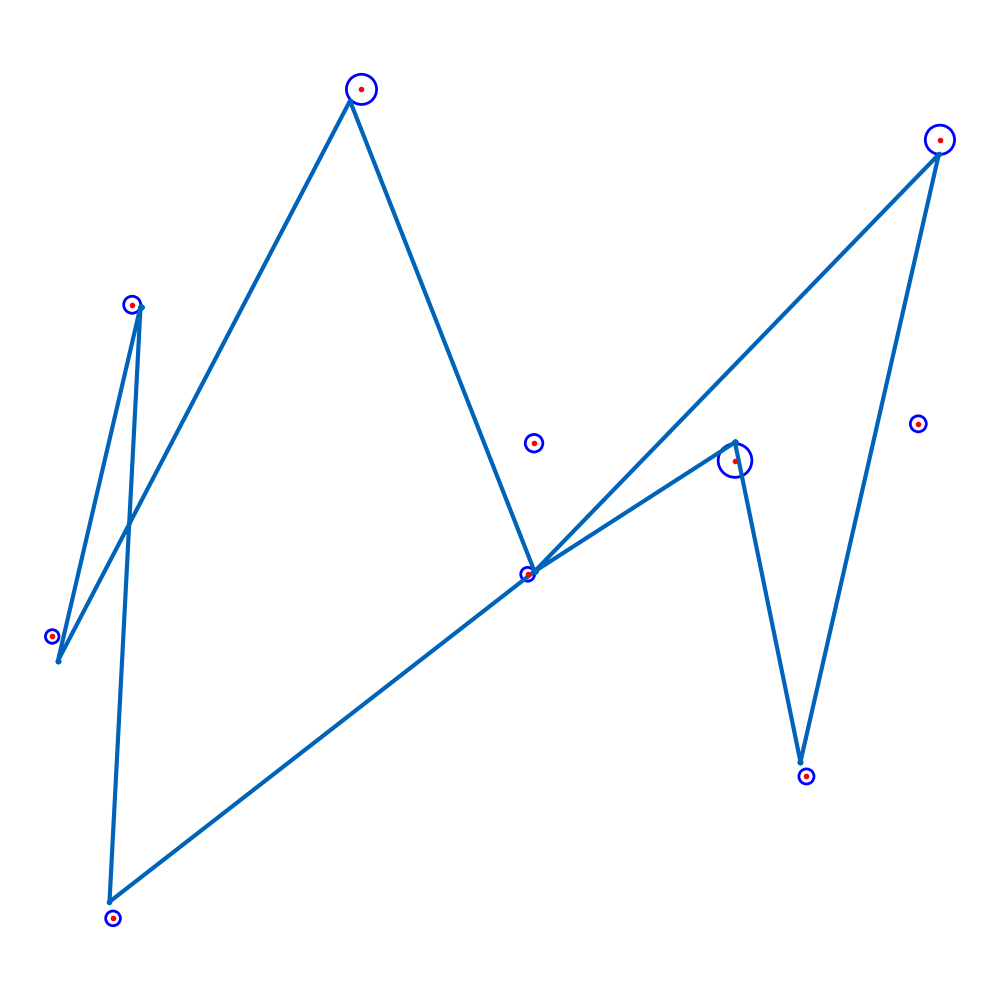
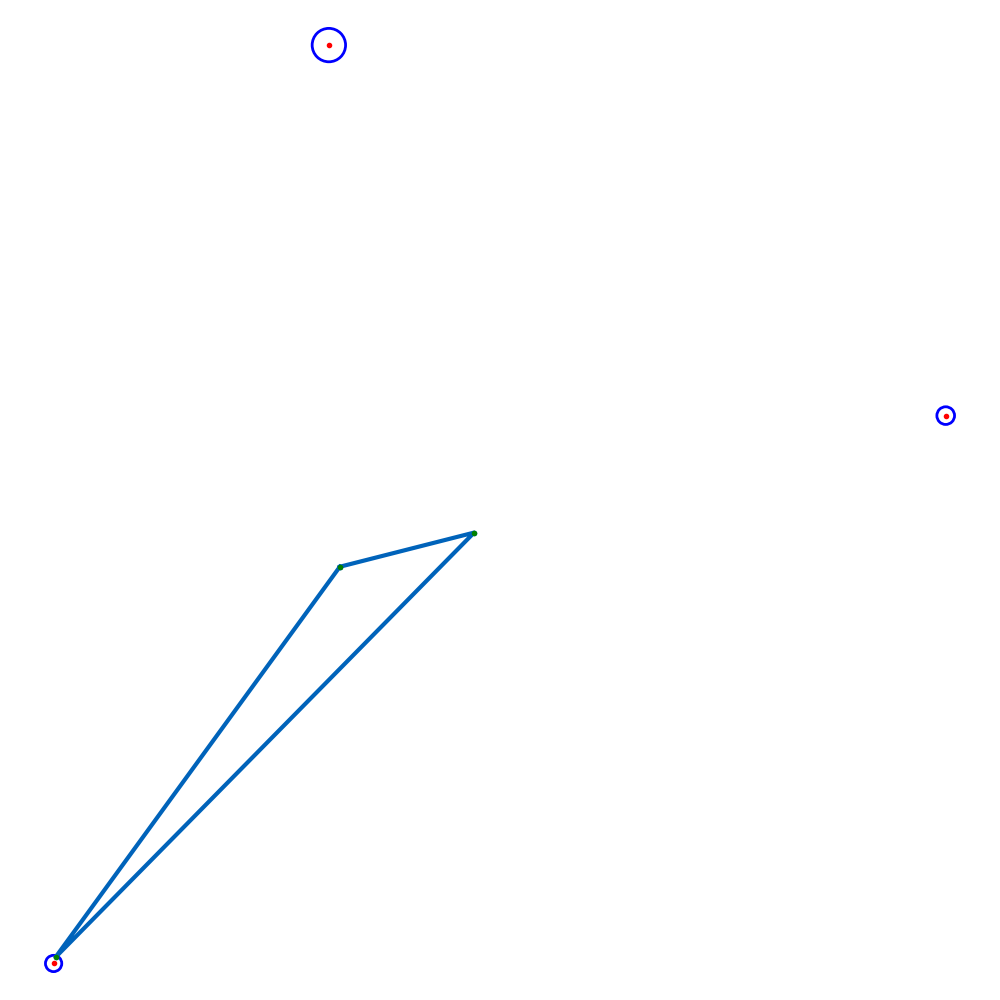
update func neuron

diff --git a/src/neuron.py b/src/neuron.py
@@ -10,7 +10,7 @@ def generate_network(robots, problem, multi = 2):
     network = [[]] * number_robot
     for i in range(number_robot):
         tmp_list = []
-        angle = math.pi / number_waypoint
+        angle = 2 * math.pi / number_waypoint
         radius = problem[i][2] * multi
         for j in range(number_waypoint):
             tmp_list.append(
@@ -53,40 +53,52 @@ def adaption(path, city, sigma):
     # Tìm way_point nằm trên path gần city nhất
     idx_waypoint, sqr_dis_waypoint, z_nearest_waypoint = find_nearest_way_point(tmp_network, city)
 
-    final_waypoint = tmp_network[idx_waypoint]
-    final_z_nearest = z_nearest_waypoint
-
     neareast_point_in_path = None
     idx_insert = None
     z_nearest_path = None
-    sqr_dis_point_in_path = 2 # Đặt là 2 vì map được normalize về [0; 1]
+    sqr_dis_point_in_path = -1
 
     if sqr_dis_waypoint > 0: # Trường hợp không có waypoint nào nằm trong region thì mới xét tới cạnh
         neareast_point_in_path, sqr_dis_point_in_path, idx_insert, z_nearest_path = find_nearest_path_point(tmp_network, city)
 
         # Trường hợp điểm nằm trên cạnh gần city hơn điểm nằm trên path
         # => Chèn điểm mới vào tmp_network tại idx_insert
-        if sqr_dis_point_in_path < sqr_dis_waypoint:
+        if sqr_dis_point_in_path != -1 and sqr_dis_point_in_path < sqr_dis_waypoint:
+            print("Chen them diem moi")
             tmp_network.insert(idx_insert, neareast_point_in_path)
-            final_waypoint = neareast_point_in_path
-            final_z_nearest = z_nearest_path
+            idx_waypoint = idx_insert
+            z_nearest_waypoint = z_nearest_path
 
-    for i in range(len(tmp_network)):
-        move_toward(tmp_network[i], final_waypoint, final_z_nearest, sigma)
+    # Trong trường hợp z_nearest ở sát biên của đường tròn => Di chuyển lại gần tâm hơn
+    z_nearest_waypoint = fix_distance_z_nearest(z_nearest_waypoint, city)
+    move_toward(tmp_network, idx_waypoint, z_nearest_waypoint, sigma)
     return tmp_network
 
-def move_toward(point, final_waypoint, final_z_nearest, sigma):
-    sqr_l = (final_waypoint[0] - point[0]) ** 2 + (final_waypoint[1] - point[1]) ** 2
-    f_factor = function_factor(sqr_l, sigma)
-    point[0] = point[0] + f_factor * (final_z_nearest[0] - point[0])
-    point[1] = point[1] + f_factor * (final_z_nearest[1] - point[1])
+def fix_distance_z_nearest(z_nearest, city, threshold = 4 / 5):
+    scale = ((z_nearest[0] - city[0]) ** 2 + (z_nearest[1] - city[1]) ** 2) / (city[2] ** 2)
+    if(scale <= (threshold ** 2)): 
+        return z_nearest
+    z_nearest[0] = z_nearest[0] + (city[0] - z_nearest[0]) * (1 - threshold)
+    z_nearest[1] = z_nearest[1] + (city[1] - z_nearest[1]) * (1 - threshold)
+    return z_nearest
+ 
+def move_toward(path, idx_waypoint, final_z_nearest, sigma):
+    sz = len(path)
+    for i in range(sz):
+        l = min(idx_waypoint - i, sz - idx_waypoint + i)
+        factor = function_factor(l, sigma)
+        path[i][0] = path[i][0] + (final_z_nearest[0] - path[i][0]) * factor
+        path[i][1] = path[i][1] + (final_z_nearest[1] - path[i][1]) * factor
 
     
-def function_factor(sqr_l, sigma, landa = 1):
-    sqr_sigma = sigma ** 2
+def function_factor(l, sigma, landa = 1, multi_factor = 1):
+    sqr_sigma = sigma * sigma
+    sqr_l = l * l
+    if sqr_l == 0:
+        return 1
     if sqr_sigma <= 0:
         return 0
-    return landa * math.exp(-sqr_l / sqr_sigma)
+    return landa * math.exp(-sqr_l * multi_factor / sqr_sigma)
 
 # todo: thêm hàm để tái tạo đường qua mỗi epoch => Giảm các điểm thừa
 def regeneration(network):
@@ -112,3 +124,6 @@ def cal_score(problem, network):
         if check[i]:
             score += problem[k][3]
     return score
+
+# Check xoa regeneration
+# Ve them cac waypoint vao map

diff --git a/src/main.py b/src/main.py
@@ -1,7 +1,7 @@
 from sys import argv
 
 import numpy as np
-import math
+import copy
 import random
 from io_helper import read_tsp, normalize
 from neuron import generate_network, adaption, regeneration, cal_score
@@ -14,20 +14,25 @@ def main():
 
     problem, robots = read_tsp(argv[1])
 
+    print("\nRobots: ")
+    print(robots)
+
+    print("\Problem: ")
+    print(problem)
+
     routes = som(problem, robots, 100000)
     print("\nRoutes: ")
     print(routes)
 
+    for robot in range(len(routes)):
+        cost = cal_cost(routes[robot])
+        print("Cost of robot {} is: {}".format(robot, cost))
     plot_map_circle(problem, routes)
 
 
 def som(problem, robots, iterations, learning_rate=0.002):
     sigma = 1
-    # Không chỉnh sửa thằng này, tránh việc sai dữ liệu problem ban đầu
-    cities = problem.copy()
-
-    print("\nRobots: ")
-    print(robots)
+    cities = copy.deepcopy(problem)
 
     # Tạo 1 network ~ con đường ngẫu nhiên của các robot lúc đầu
     network = generate_network(robots, cities)
@@ -48,7 +53,7 @@ def som(problem, robots, iterations, learning_rate=0.002):
     print("\nCost:")
     print(cost)
 
-    result_network = [[]] * number_robot
+    result_network = copy.deepcopy(network)
     max_score = -1
 
     print('\nNetwork of {} neurons created. Starting the iterations:'.format(len(robots)))
@@ -84,9 +89,11 @@ def som(problem, robots, iterations, learning_rate=0.002):
 
         tmp_score = cal_score(problem, network)  
         if max_score == -1 or max_score < tmp_score:
+            max_score = tmp_score
+            print("\nMax score is: {}".format(max_score))
             # Lưu lời giải tốt nhất
-            for k in range(number_robot):
-                result_network[k] = list(network[k])
+            result_network = copy.deepcopy(network)
+
         sigma = sigma * (1 - i * learning_rate)
         if sigma <= 0:
             break

diff --git a/src/distance.py b/src/distance.py
@@ -44,6 +44,8 @@ def find_nearest_way_point(network, city):
         if min_dis == -1 or min_dis > dis:
             min_dis = dis
             min_idx = i
+        
+        # Trường hợp có 1 điểm trên đường nằm trong region thì trả về luôn
         if min_dis <= 0:
             return min_idx, 0, [network[min_idx][0], network[min_idx][1]]
     z_nearest = find_point_nearest_in_circle(network[min_idx], city)
@@ -55,7 +57,7 @@ def find_nearest_path_point(network, city):
     xt_min = -1
     yt_min = -1
     idx_insert = -1
-    min_dis = 2 # Do đã normalize
+    min_dis = -1 
     for i in range(len(network)):
         A = network[i]
         B = network[i - 1]
@@ -69,17 +71,18 @@ def find_nearest_path_point(network, city):
         dis = (xt_tmp - city[0]) ** 2 + (yt_tmp - city[1]) ** 2
         dis = max(dis - sqr_radius, 0)
 
-        if min_dis > dis:
+        if min_dis == -1 or min_dis > dis:
             min_dis = dis
             xt_min = xt_tmp
             yt_min = yt_tmp
             idx_insert = i
         
-        if min_dis <= 0:
+        # Trường hợp điểm nằm trên path cũng nằm trong region thì return luôn
+        if min_dis <= 0 and idx_insert >= 0:
             return [xt_min, yt_min], 0, idx_insert, [xt_min, yt_min]
         
     # Trường hợp tệ, tất cả các điểm gần nhất đều nằm ngoài đoạn thẳng
-    if xt_min < 0 or yt_min < 0 or min_dis > 1:
-        return None, 2, None, None
+    if xt_min < 0 or yt_min < 0 or min_dis < 0 or idx_insert < 0:
+        return None, -1, None, None
     z_nearest = find_point_nearest_in_circle([xt_min, yt_min], city)
     return [xt_min, yt_min], min_dis, idx_insert, z_nearest

diff --git a/src/io_helper.py b/src/io_helper.py
@@ -51,23 +51,20 @@ def read_tsp(filename):
             nrows=dimension
         )
 
-        # cities.set_index('city', inplace=True)
-        cities[['x', 'y', 'r']] = cities[['x', 'y', 'r']] / create_circle.MAX_SIZE
-        robots[['budget']] = robots[['budget']] / create_circle.MAX_SIZE
+        # Bỏ localize
+        # cities[['x', 'y', 'r']] = cities[['x', 'y', 'r']] / create_circle.MAX_SIZE
+        # robots[['budget']] = robots[['budget']] / create_circle.MAX_SIZE
+
         return cities[['x', 'y', 'r', 'reward']].values.tolist(), robots[['budget']].values.tolist()
 
 def normalize(cities):
-    # ratio = (points.x.max() - points.x.min()) / (points.y.max() - points.y.min()), 1
-    # ratio = np.array(ratio) / max(ratio)
-    # norm = points.apply(lambda c: (c - c.min()) / (c.max() - c.min()))
-    # return norm.apply(lambda p: ratio * p, axis=1)
     tmp_gcd = math.ceil(cities[0][3])
     for i in range(len(cities)):
         cities[i][3] = math.ceil(cities[i][3])
         tmp_gcd = math.gcd(tmp_gcd, cities[i][3])
     size = len(cities)
     for i in range(size):
-        number_duplicate = math.ceil(cities[i][3] / tmp_gcd)
+        number_duplicate = math.ceil(cities[i][3] / tmp_gcd) - 1
         for j in range(number_duplicate):
             copy_list = list(cities[i])
             cities.append(copy_list)

diff --git a/src/plot.py b/src/plot.py
@@ -56,12 +56,28 @@ def plot_map_circle(cities, routes, name="diagrams/map_circle.png"):
     axis.set_aspect('equal', adjustable='datalim')
     plt.axis('off')
 
+    
+    for i in range(len(cities)):
+        cities[i][0] /= create_circle.MAX_SIZE
+        cities[i][1] /= create_circle.MAX_SIZE
+        cities[i][2] /= create_circle.MAX_SIZE
+
+    for i in range(len(routes)):
+        for j in range(len(routes[i])):
+            routes[i][j][0] /= create_circle.MAX_SIZE
+            routes[i][j][1] /= create_circle.MAX_SIZE
+
     # Vẽ các region city
     for circle in cities:
         c = patches.Circle((circle[0], circle[1]), circle[2], edgecolor='blue', facecolor='none', linewidth=1)
         axis.scatter(circle[0], circle[1], color='red', zorder=5, s=1)
         axis.add_patch(c)
     
+    # todo : ve them cac diem waypoint cua robot
+    for i in range(len(routes)):
+        for j in range(len(routes[i])):
+            axis.scatter(routes[i][j][0], routes[i][j][1], color='green', zorder=5, s=1)
+
     # Vẽ path của các con robot
     for i in range(len(routes)):
         if len(routes[i]) <= 1:

diff --git a/src/test.py b/src/test.py
@@ -1,4 +1,6 @@
-a = [[]] * 10
-a[1] = [12, 213, 33]
+import random
+a = [12, 213, 33, 123, 12, 4, 5, 32, 34]
+b = [a[0], a[1]]
+b[0] = b[0] + 4
 print(a)
-print(type(a))
+print(b)
